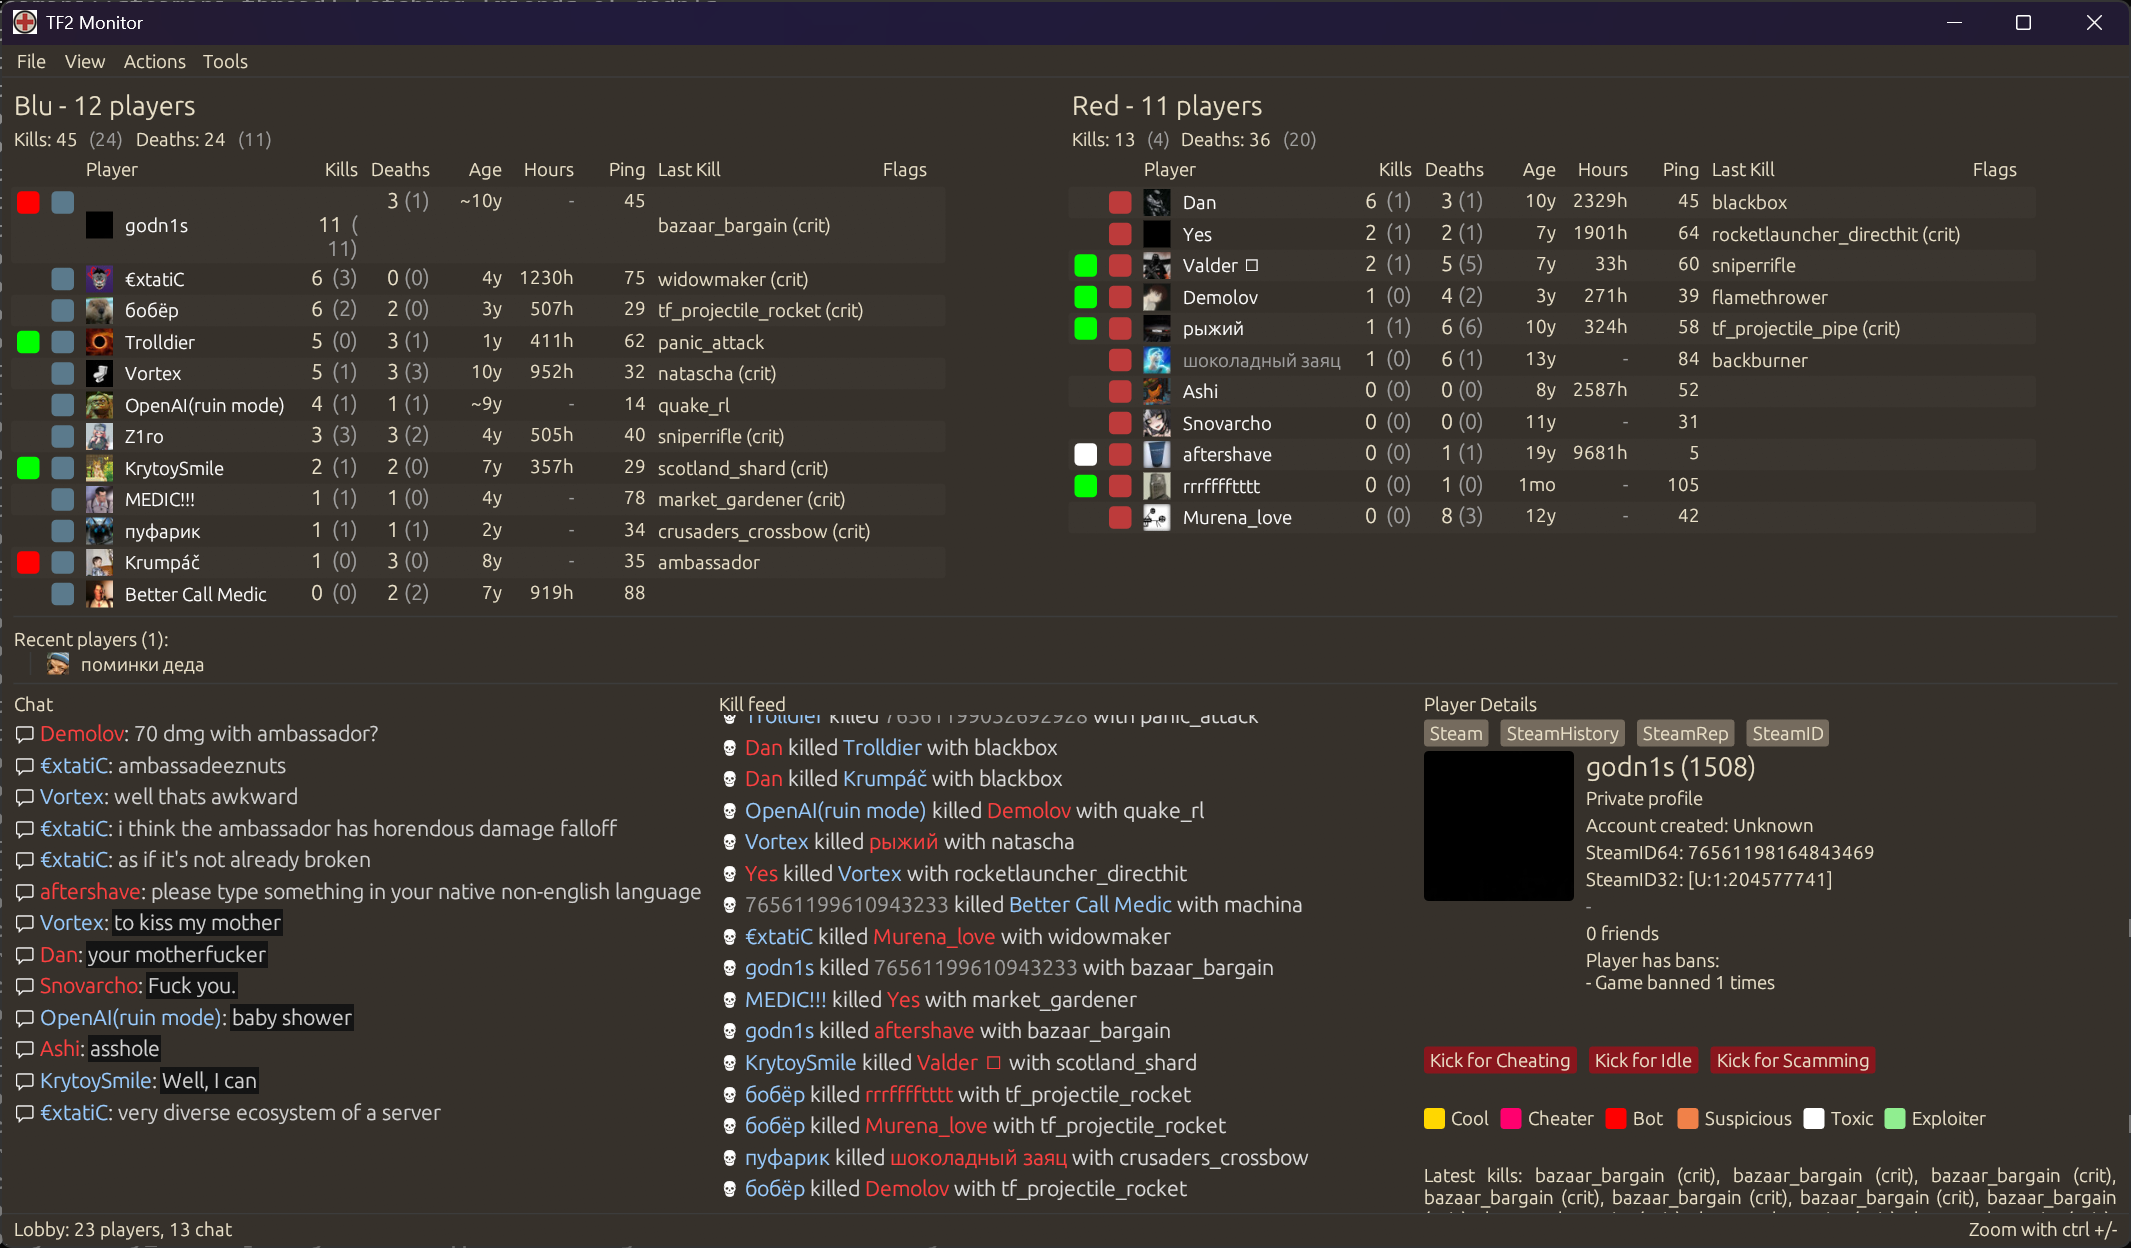
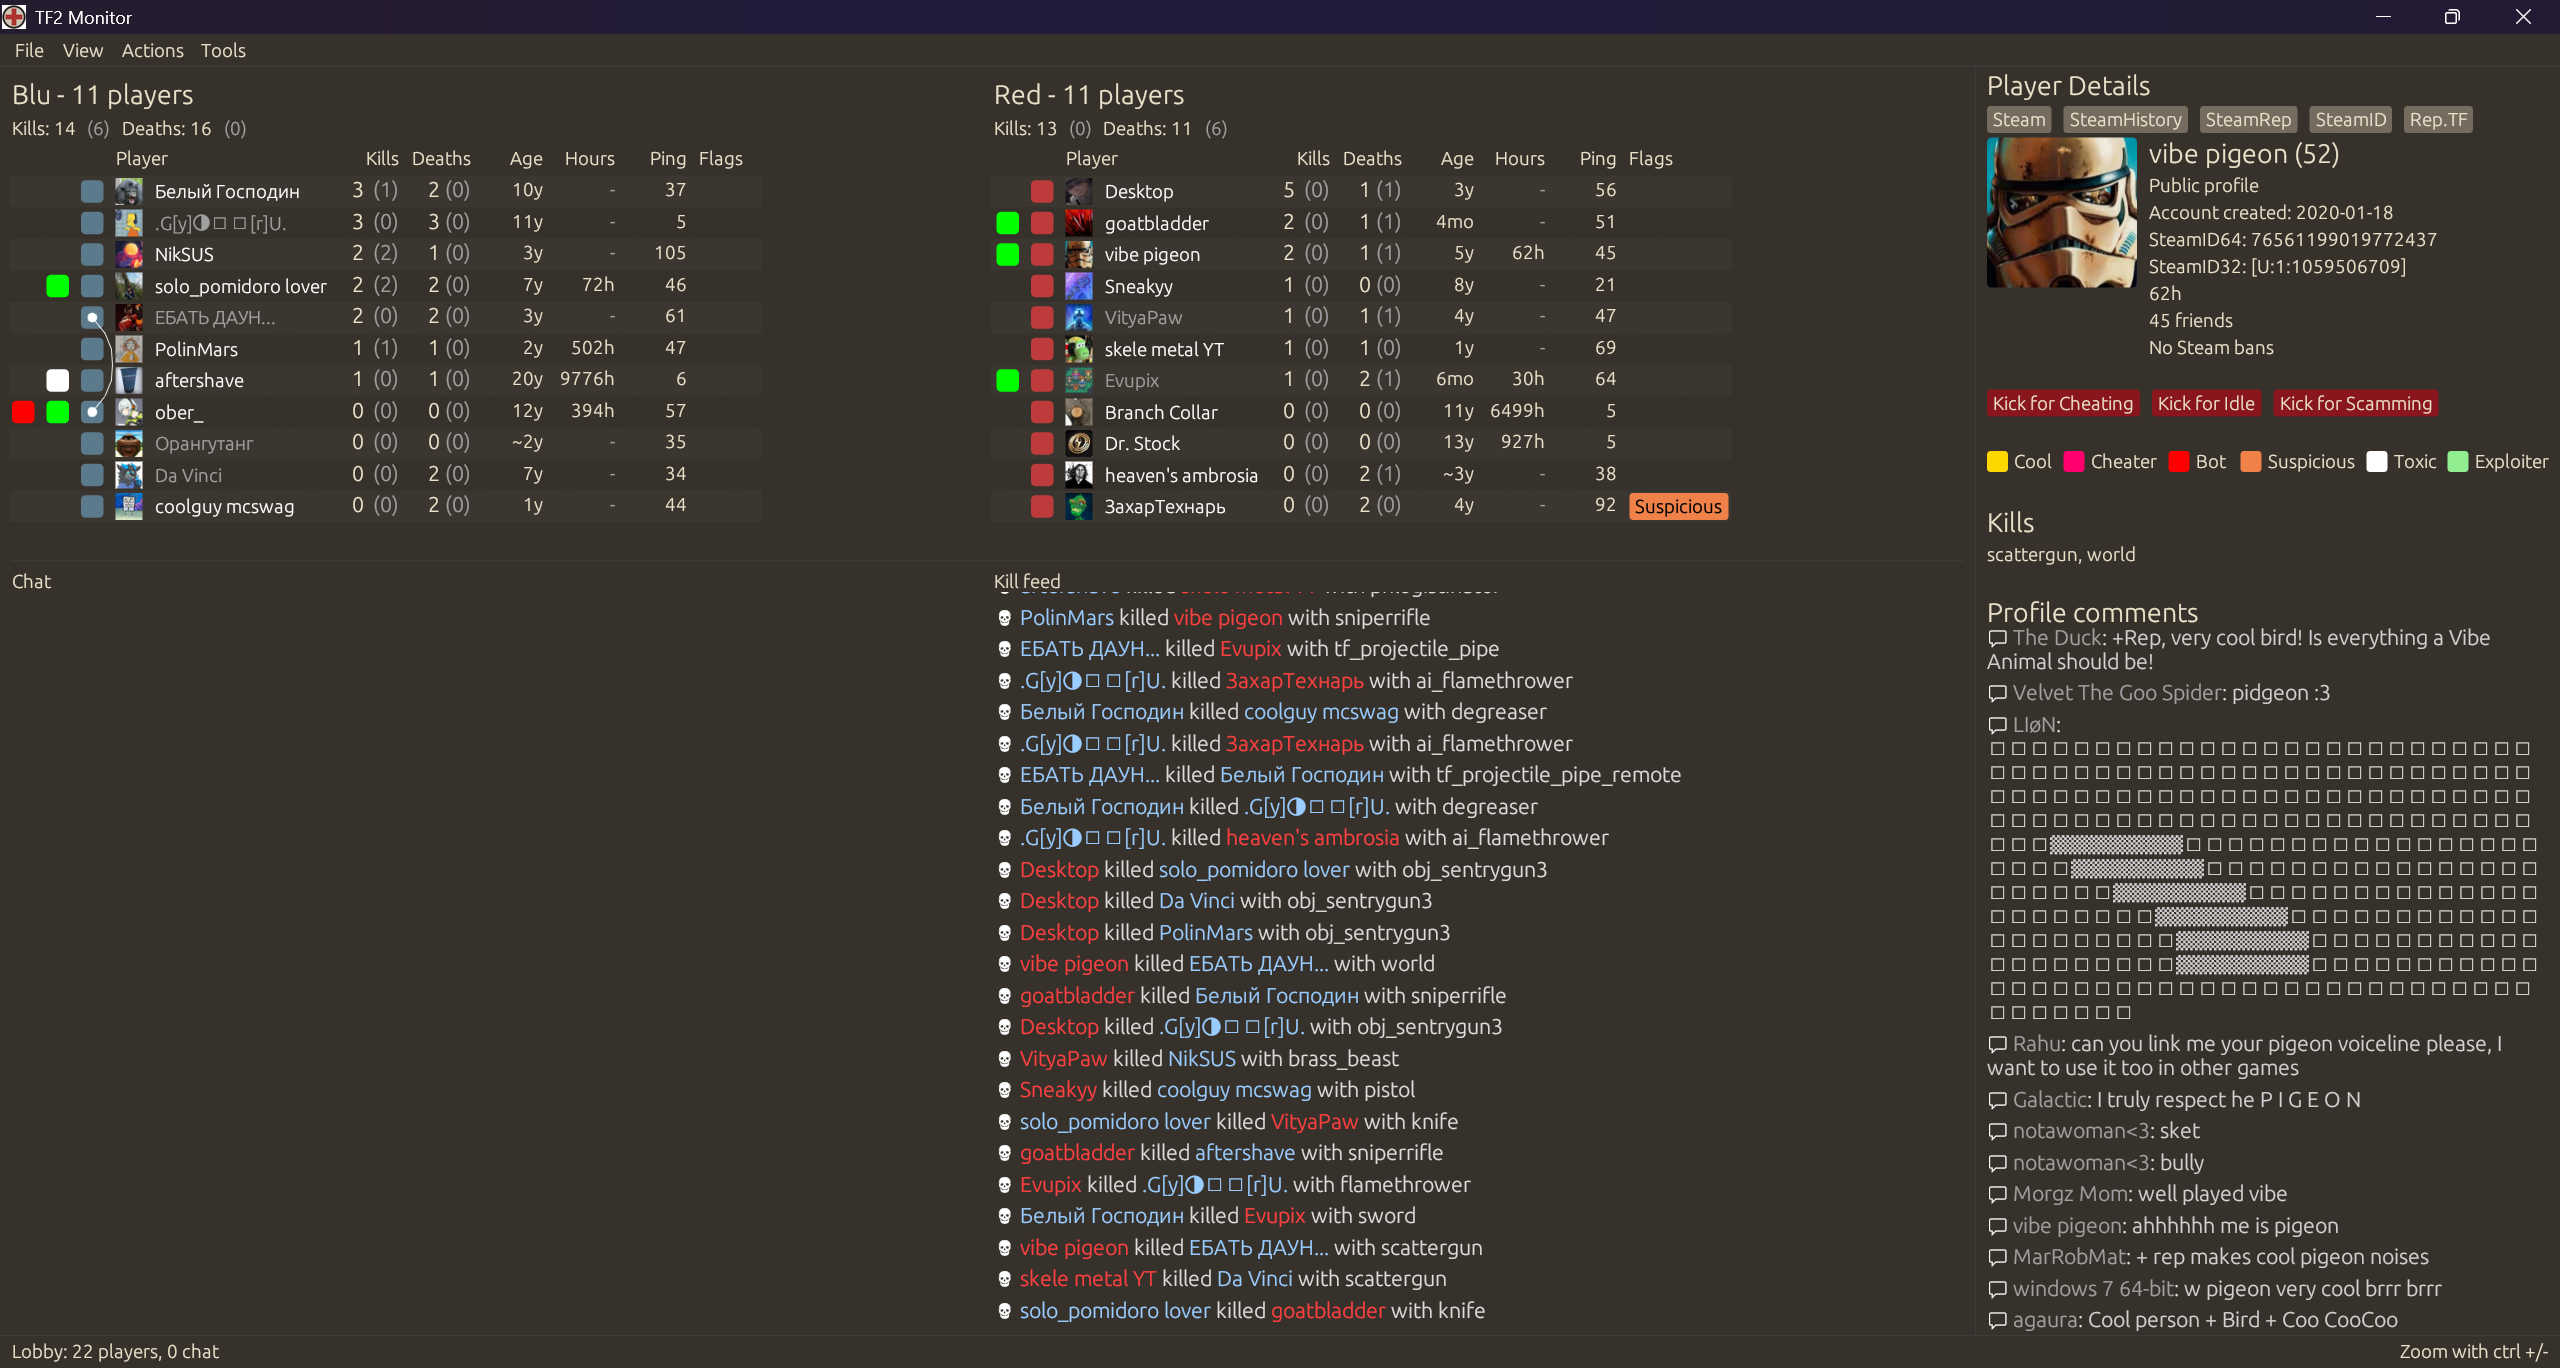
Moved player details to the right

diff --git a/src/gui/scoreboard_team.rs b/src/gui/scoreboard_team.rs
@@ -67,10 +67,10 @@ pub fn scoreboard_team(app_win: &mut AppWin, ui: &mut Ui, title: &str, players: 
             // ui.label(RichText::new("Deaths").strong());
             ui.label("Ping");
         });
-        ui.with_layout(Layout::top_down(Align::LEFT), |ui| {
-            // ui.label(RichText::new("Links").strong());
-            ui.label("Last Kill");
-        });
+        // ui.with_layout(Layout::top_down(Align::LEFT), |ui| {
+        //     // ui.label(RichText::new("Links").strong());
+        //     ui.label("Last Kill");
+        // });
         ui.with_layout(Layout::top_down(Align::LEFT), |ui| {
             // ui.label(RichText::new("Links").strong());
             ui.label("Flags");
@@ -162,12 +162,12 @@ pub fn scoreboard_team(app_win: &mut AppWin, ui: &mut Ui, title: &str, players: 
                     .on_hover_text_at_pointer("ms");
             });
 
-            if let Some(k) = player.kills_with.last() {
-                let s = format!("{}{}", k.weapon, if k.crit { " (crit)" } else { "" });
-                ui.label(s);
-            } else {
-                ui.label("");
-            }
+            // if let Some(k) = player.kills_with.last() {
+            //     let s = format!("{}{}", k.weapon, if k.crit { " (crit)" } else { "" });
+            //     ui.label(s);
+            // } else {
+            //     ui.label("");
+            // }
 
             add_flags(ui, player);
 
@@ -185,7 +185,7 @@ pub fn scoreboard_team(app_win: &mut AppWin, ui: &mut Ui, title: &str, players: 
                 ui.label("");
                 ui.label("");
                 ui.label("");
-                ui.label("");
+                // ui.label("");
                 ui.end_row();
             }
         }

diff --git a/src/gui/player_details_panel.rs b/src/gui/player_details_panel.rs
@@ -9,7 +9,7 @@ use crate::{
 use eframe::egui::{Image, OpenUrl, Ui, Vec2};
 
 pub fn add_player_details_panel(app_win: &mut AppWin, ui: &mut Ui) {
-    ui.label("Player Details");
+    ui.heading("Player Details");
 
     let steamid = app_win.selected_player;
     if steamid.is_none() {
@@ -92,7 +92,9 @@ pub fn add_player_details_panel(app_win: &mut AppWin, ui: &mut Ui) {
 
     ui.label("");
 
-    // add_player_kills(player, ui);
+    add_player_kills(player, ui);
+
+    ui.label("");
 
     add_profile_comments(player, ui);
 }
@@ -110,6 +112,8 @@ fn add_player_avatar(player: &Player, ui: &mut Ui) {
 }
 
 fn add_player_kills(player: &Player, ui: &mut Ui) {
+    ui.heading("Kills");
+
     if player.kills_with.is_empty() {
         ui.label("No kills yet");
         return;
@@ -123,7 +127,7 @@ fn add_player_kills(player: &Player, ui: &mut Ui) {
         .collect::<Vec<String>>()
         .join(", ");
 
-    ui.label(format!("Latest kills: {}", names));
+    ui.label(format!("{}", names));
 }
 
 fn add_player_community_links(player: &Player, ui: &mut Ui) {
@@ -143,6 +147,7 @@ fn add_player_community_links(player: &Player, ui: &mut Ui) {
         make_link(ui, player.steamid.steam_history_url(), "SteamHistory");
         make_link(ui, player.steamid.steam_rep_url(), "SteamRep");
         make_link(ui, player.steamid.steam_id_url(), "SteamID");
+        make_link(ui, player.steamid.rep_tf_url(), "Rep.TF");
     });
 }
 

diff --git a/src/gui/comments.rs b/src/gui/comments.rs
@@ -13,6 +13,8 @@ use super::colors::hexrgb;
 pub fn add_profile_comments(player: &Player, ui: &mut Ui) {
     // ui.heading("More info:");
     ui.vertical(|ui| {
+        ui.heading("Profile comments");
+
         if let Some(comments) = &player.profile_comments {
             let text_style = TextStyle::Body;
             let row_height = ui.text_style_height(&text_style);
@@ -52,8 +54,6 @@ pub fn add_profile_comments(player: &Player, ui: &mut Ui) {
 
 fn add_comment_row(ui: &mut Ui, row: &SteamProfileComment) {
     ui.horizontal_wrapped(|ui| {
-        let mut player_name = &row.name;
-
         let mut job = LayoutJob::default();
 
         job.append(
@@ -67,7 +67,7 @@ fn add_comment_row(ui: &mut Ui, row: &SteamProfileComment) {
 
         // Player name
         job.append(
-            player_name,
+            &row.name,
             0.0,
             TextFormat {
                 // color,

diff --git a/src/gui/mod.rs b/src/gui/mod.rs
@@ -86,6 +86,10 @@ impl eframe::App for AppWin {
             add_status_row(self, ui, &image_desc);
         });
 
+        egui::SidePanel::right("right_panel").show(ctx, |ui| {
+            add_player_details_panel(self, ui);
+        });
+
         egui::CentralPanel::default().show(ctx, |ui| {
             // draw_background_image(ui);
 
@@ -93,10 +97,9 @@ impl eframe::App for AppWin {
 
             ui.separator();
 
-            ui.columns(3, |ui| {
+            ui.columns(2, |ui| {
                 add_chat(&mut ui[0], self);
                 add_kill_feed(&mut ui[1], self);
-                add_player_details_panel(self, &mut ui[2]);
             });
 
             if self.app_settings.show_friendship_indicators {

diff --git a/src/models/steamid.rs b/src/models/steamid.rs
@@ -66,6 +66,10 @@ impl SteamID {
     pub fn steam_id_url(&self) -> String {
         format!("https://steamid.uk/profile/{}", self.0)
     }
+
+    pub fn rep_tf_url(&self) -> String {
+        format!("https://rep.tf/{}", self.0)
+    }
 }
 
 #[cfg(test)]
